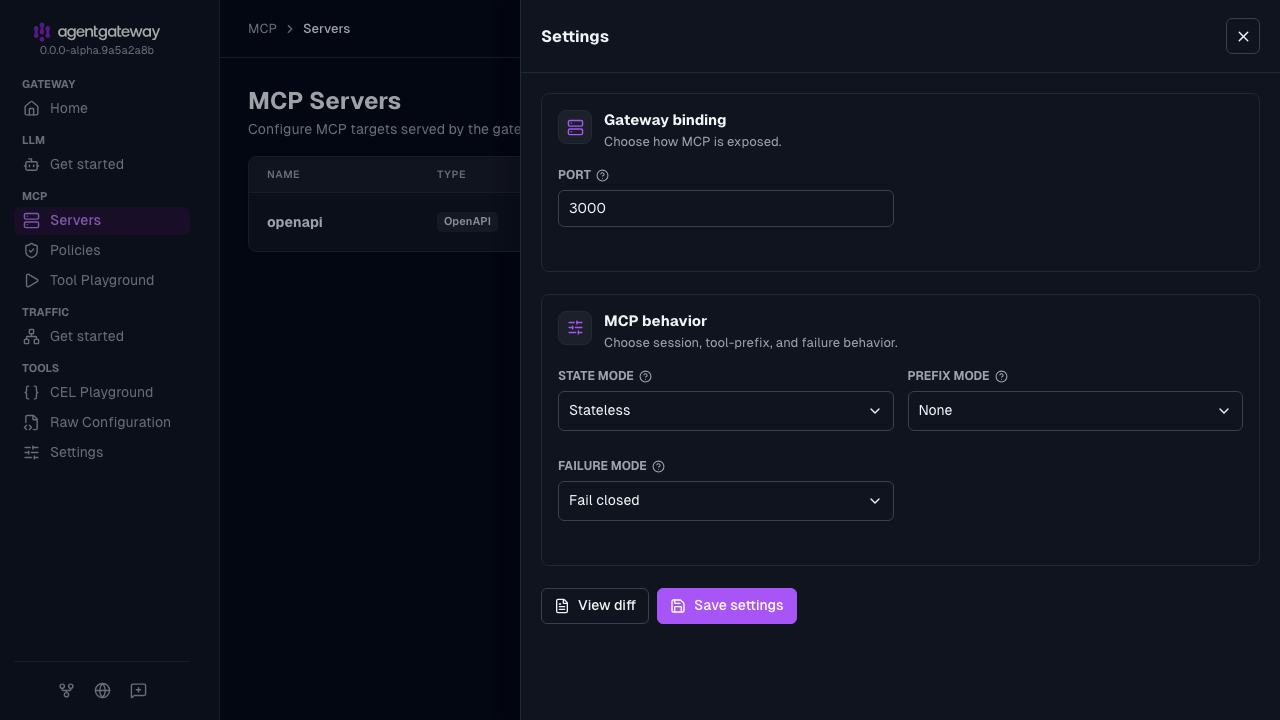
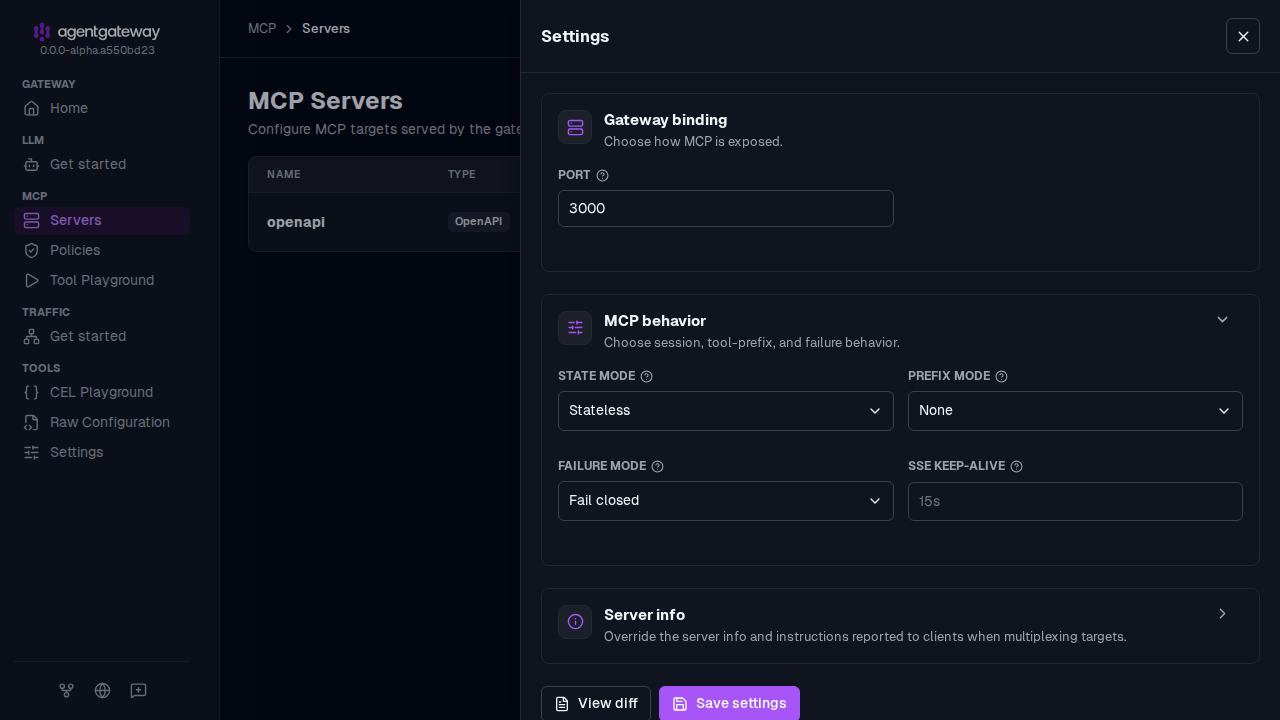
docs(ui): 1.7 MCP settings drawer + K8s Client Setup fixes
- Standalone MCP server guides (http, openapi, virtual): add "Expand
  **MCP behavior**." The section starts collapsed since #4094.
- Recapture ui-mcp-settings-{stateless,prefix-never}{,-dark} with the
  section expanded. ui-tabs-d.spec.ts now clicks it open. Captured in the
  Linux Playwright container against the a550bd23 image.
- K8s Claude Desktop asset: drop the "Kubernetes UI does not show Client
  Setup" claims (false since #3634). Keep a version-neutral note for every
  version, and add main-only pointers to LLM > Client Setup.
- Add UI tabs for SSE keep-alive (configuration-modes) and Server info
  overrides (virtual.md).

diff --git a/playwright/tests/ui-tabs-d.spec.ts b/playwright/tests/ui-tabs-d.spec.ts
@@ -57,7 +57,13 @@ test.describe('MCP server UI tabs', () => {
     await openServers(page);
     await page.getByRole('button', { name: /^settings$/i }).first().click();
     const drawer = page.getByRole('dialog');
-    await expect(drawer.getByText('MCP behavior')).toBeVisible();
+    // MCP behavior (State mode, Prefix mode, Failure mode, SSE keep-alive) starts collapsed, so
+    // expand it, as the guides' steps tell the reader to.
+    const behavior = drawer.getByRole('button', { name: /^MCP behavior\b/ });
+    await expect(behavior).toHaveAttribute('aria-expanded', 'false');
+    await behavior.click();
+    await expect(behavior).toHaveAttribute('aria-expanded', 'true');
+    await expect(drawer.getByRole('combobox', { name: 'State mode', exact: true })).toBeVisible();
     return drawer;
   }
 

diff --git a/assets/agw-docs/pages/agentgateway/integrations/llm-clients-k8s/claude-desktop.md b/assets/agw-docs/pages/agentgateway/integrations/llm-clients-k8s/claude-desktop.md
@@ -4,6 +4,9 @@ Configure [Claude Desktop](https://claude.com/download) to route requests throug
 
 {{< reuse "agw-docs/snippets/claude-desktop-3p.md" >}}
 
+> [!NOTE]
+> Claude Desktop uses the same client settings in every deployment mode. Only the resources that configure agentgateway differ.
+
 ## Before you begin
 
 1. Set up an [agentgateway proxy]({{< link-hextra path="/documentation/setup/gateway/" >}}).
@@ -25,6 +28,11 @@ Configure [Claude Desktop](https://claude.com/download) to route requests throug
    authentication, you need an OIDC provider and an Anthropic API key for the
    proxy.
 
+{{< version exclude-if="1.0.x,1.1.x,1.2.x,1.3.x,1.4.x,1.5.x,1.6.x,2.2.x" >}}
+> [!TIP]
+> The UI's **LLM** > **Client Setup** page generates the Claude Desktop connection settings from the gateway URL and API key that you enter. The page configures the client only. It does not create or change Kubernetes resources, so you still set up the backend and route in the following steps. For more information, see [Generate LLM client settings]({{< link-hextra path="/documentation/observability/ui/#client-setup" >}}).
+{{< /version >}}
+
 ## Get the gateway URL {#gateway-url}
 
 {{< reuse "agw-docs/snippets/agw-get-gateway-url-k8s.md" >}}
@@ -37,8 +45,6 @@ Configure [Claude Desktop](https://claude.com/download) to route requests throug
 > * **Port-forward the proxy** and use `http://127.0.0.1:<port>`. Use the literal address `127.0.0.1`, because `localhost` does not always resolve as a loopback address for this check. Choose this option to try out the setup on a single machine.
 > * **Terminate HTTPS on the proxy** and use `https://<hostname>`. Choose this option when you [roll out the configuration to your organization](#mdm), because each user's machine must reach the proxy over the network. To set up a certificate, see [HTTPS listeners]({{< link-hextra path="/documentation/setup/listeners/https/" >}}).
 
-> [!NOTE]
-> The Kubernetes UI is read-only and does not currently show the standalone **LLM > Client Setup** generator. Configure the client with the same gateway URL and credential values manually. The client settings are not specific to a deployment mode; only the resources that configure agentgateway differ. Follow [agentgateway/agentgateway#2989](https://github.com/agentgateway/agentgateway/issues/2989) for the enhancement, and see [UI]({{< link-hextra path="/documentation/observability/ui/" >}}) for more information about the current UI.
 
 ## Set up the Anthropic backend
 
@@ -164,7 +170,9 @@ With `{{< reuse "agw-docs/snippets/agentgatewaymodel.md" >}}` resources, clients
 
 ## Use a gateway API key {#gateway-api-key}
 
-You can use the same client-side values that the standalone **Client Setup** page produces. The Kubernetes UI does not generate these values, so configure the gateway and Claude Desktop manually.
+{{< version exclude-if="1.0.x,1.1.x,1.2.x,1.3.x,1.4.x,1.5.x,1.6.x,2.2.x" >}}
+After you create the key in the following steps, the UI's [**LLM** > **Client Setup**]({{< link-hextra path="/documentation/observability/ui/#client-setup" >}}) page can generate the Claude Desktop settings. Enter the **Gateway base URL**, paste the key into **Raw API key**, and select **Claude Desktop** as the **Integration**. The page does not create the backend, policy, or Secret.
+{{< /version >}}
 
 1. Verify that the `anthropic-desktop` backend references `anthropic-secret` in
    `policies.auth`, as configured in [Set up the Anthropic

diff --git a/content/docs/standalone/main/integrations/mcp/servers/virtual.md b/content/docs/standalone/main/integrations/mcp/servers/virtual.md
@@ -307,7 +307,7 @@ You can set the prefix mode in the UI or in your configuration file.
 
 {{< tabs >}}
 {{% tab name="UI" %}}
-1. Open [http://localhost:15000/ui/mcp/servers](http://localhost:15000/ui/mcp/servers) (**MCP** > **Servers**), and click **Settings**.
+1. Open [http://localhost:15000/ui/mcp/servers](http://localhost:15000/ui/mcp/servers) (**MCP** > **Servers**), and click **Settings**. Expand **MCP behavior**.
 2. For **Prefix mode**, select **Never**.
 3. For **State mode**, select **Stateful** to keep the default session behavior. The list shows **Stateless** when `statefulMode` is not set, and the drawer saves the selected value.
 
@@ -387,6 +387,18 @@ Conditions run on every request. Keep these behaviors in mind:
 
 When you multiplex multiple targets, the client receives the gateway MCP `serverInfo` values and instructions. To customize that metadata, set the `server` block on the MCP configuration. The override applies only to multiplexed targets. A backend with one target keeps the target server's normal metadata.
 
+{{< tabs >}}
+{{% tab name="UI" %}}
+1. Open [http://localhost:15000/ui/mcp/servers](http://localhost:15000/ui/mcp/servers) (**MCP** > **Servers**), and click **Settings**. Expand **Server info**.
+2. For **Name** and **Version**, enter `company-mcp-gateway` and `2026.09`. Set both fields or leave both empty. If you set only one, the save fails.
+3. For **Title**, enter `Company MCP Gateway`.
+4. For **Instructions**, enter `Use this gateway to access approved internal MCP tools.`
+5. Expand **MCP behavior**. For **State mode**, select **Stateful** to keep the default session behavior. The list shows **Stateless** when `statefulMode` is not set, and the drawer saves the selected value.
+6. Click **Save settings**.
+
+The UI sets the `server` block, as in the **Config file** tab. It also writes the selected state mode, sets `failureMode` to `failClosed`, and writes an empty `gateways` list. To remove the overrides, clear all four fields and save.
+{{% /tab %}}
+{{% tab name="Config file" %}}
 ```yaml
 # yaml-language-server: $schema=https://agentgateway.dev/schema/config
 mcp:
@@ -406,6 +418,8 @@ mcp:
       cmd: npx
       args: ["@modelcontextprotocol/server-everything"]
 ```
+{{% /tab %}}
+{{< /tabs >}}
 
 | Field | Description |
 | ----- | ----------- |

diff --git a/content/docs/standalone/main/documentation/mcp/configuration-modes.md b/content/docs/standalone/main/documentation/mcp/configuration-modes.md
@@ -190,9 +190,17 @@ Use `sseKeepAlive` on the MCP backend to send Server-Sent Events (SSE) comment f
 
 An MCP stream is idle whenever no tool calls or notifications are in flight, which nothing in the network path can tell apart from a dead connection. Keep-alives are off by default, so omit `sseKeepAlive` if you do not need them.
 
-Set the duration for the keep-alive where you configure the backend: `mcp.sseKeepAlive` in the simplified MCP style, and `routes[].backends[].mcp.sseKeepAlive` in the routing-based style.
+Set the duration for the keep-alive where you configure the backend: `mcp.sseKeepAlive` in the simplified MCP style, and `routes[].backends[].mcp.sseKeepAlive` in the routing-based style. The UI sets the simplified MCP style.
 
 {{< tabs >}}
+{{% tab name="UI" %}}
+1. Open [http://localhost:15000/ui/mcp/servers](http://localhost:15000/ui/mcp/servers) (**MCP** > **Servers**), and click **Settings**. Expand **MCP behavior**.
+2. For **SSE keep-alive**, enter `10s`.
+3. For **State mode**, select **Stateful** to keep the default session behavior. The list shows **Stateless** when `statefulMode` is not set, and the drawer saves the selected value.
+4. Click **Save settings**.
+
+The UI sets `mcp.sseKeepAlive` to `10s`, as in the **Simplified (MCP)** tab. It also writes the selected state mode, sets `failureMode` to `failClosed`, and writes an empty `gateways` list. To turn off keep-alives, clear the field and save.
+{{% /tab %}}
 {{% tab name="Simplified (MCP)" %}}
 ```yaml
 # yaml-language-server: $schema=https://agentgateway.dev/schema/config

diff --git a/content/docs/standalone/main/integrations/mcp/servers/http.md b/content/docs/standalone/main/integrations/mcp/servers/http.md
@@ -96,7 +96,7 @@ You can turn on stateless mode in the UI or in your configuration file.
 {{% tab name="UI" %}}
 These steps assume an MCP server that you already added, as described in [Configure the agentgateway](#configure-the-agentgateway).
 
-1. Open [http://localhost:15000/ui/mcp/servers](http://localhost:15000/ui/mcp/servers) (**MCP** > **Servers**), and click **Settings**.
+1. Open [http://localhost:15000/ui/mcp/servers](http://localhost:15000/ui/mcp/servers) (**MCP** > **Servers**), and click **Settings**. Expand **MCP behavior**.
 2. For **State mode**, select **Stateless**.
 
    {{< reuse-image src="img/ui-mcp-settings-stateless.png" srcDark="img/ui-mcp-settings-stateless-dark.png" alt="MCP servers settings drawer with the state mode set to Stateless" >}}

diff --git a/content/docs/standalone/main/integrations/mcp/servers/openapi.md b/content/docs/standalone/main/integrations/mcp/servers/openapi.md
@@ -426,7 +426,7 @@ OpenAPI backends are inherently stateless because they translate standard REST e
 
 {{< tabs >}}
 {{% tab name="UI" %}}
-1. Open [http://localhost:15000/ui/mcp/servers](http://localhost:15000/ui/mcp/servers) (**MCP** > **Servers**), and click **Settings**.
+1. Open [http://localhost:15000/ui/mcp/servers](http://localhost:15000/ui/mcp/servers) (**MCP** > **Servers**), and click **Settings**. Expand **MCP behavior**.
 2. For **State mode**, select **Stateless**.
 
    {{< reuse-image src="img/ui-mcp-settings-stateless.png" srcDark="img/ui-mcp-settings-stateless-dark.png" alt="MCP servers settings drawer with the state mode set to Stateless" >}}
